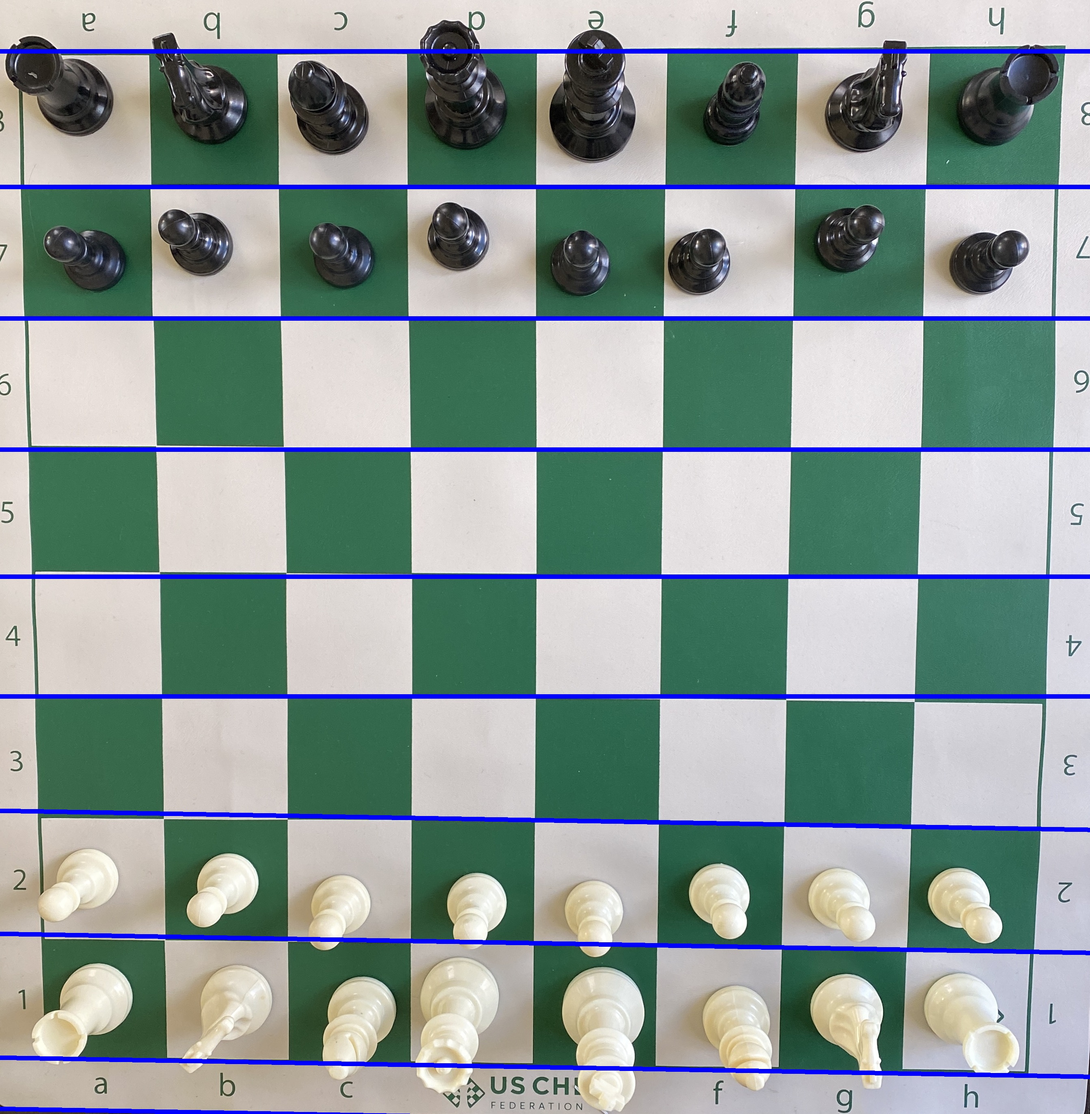
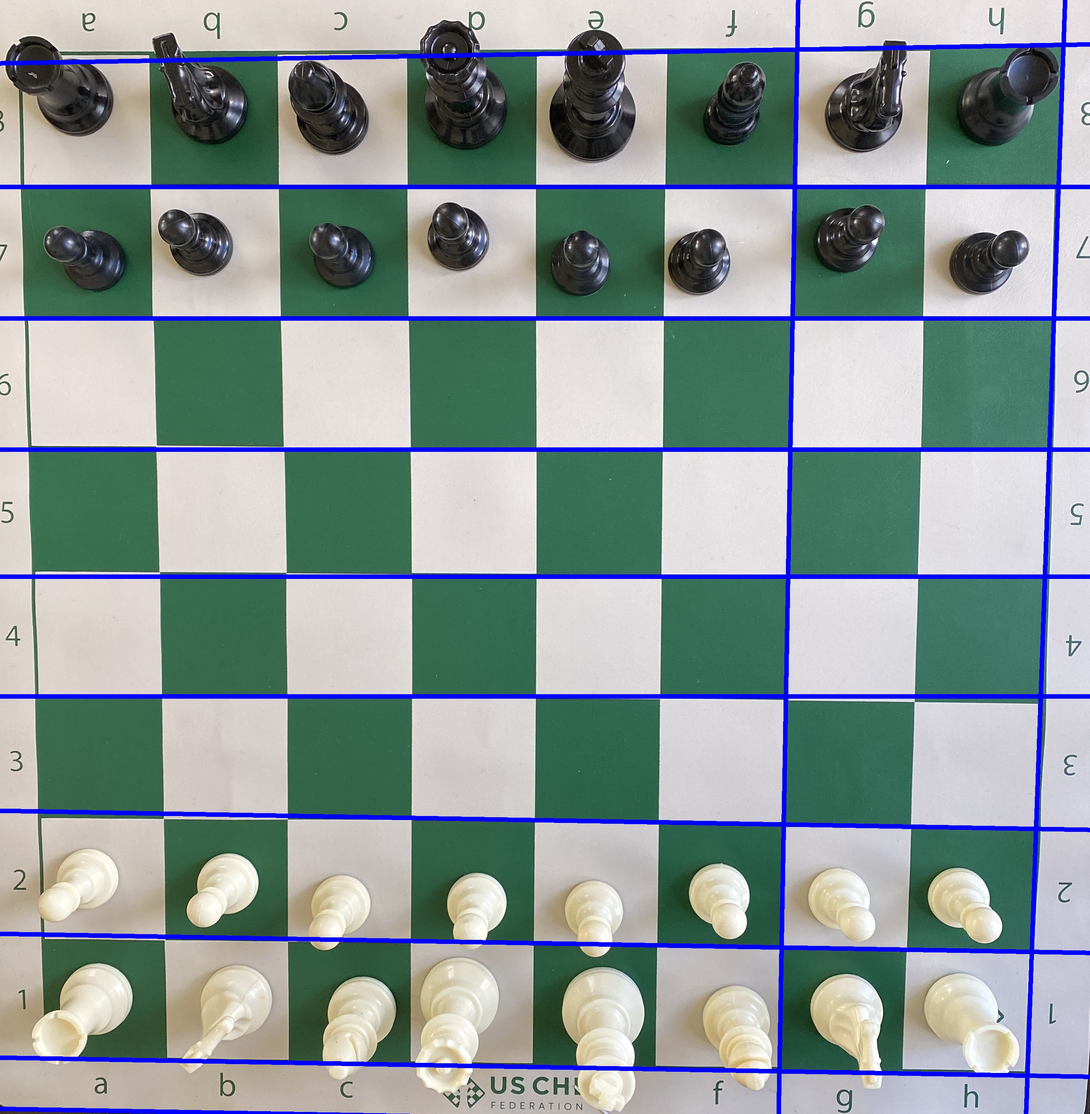
working on grid detection

Changed region(s): [[0.6492, 0.0, 1.0, 1.0], [0.0, 0.031, 0.6182, 0.062], [0.9274, 0.5266, 0.9583, 1.0]]

diff --git a/check4mate (python app)/main.py b/check4mate (python app)/main.py
@@ -69,9 +69,9 @@ for r_theta in lines:
     #Find whether line is closer to horizontal or vertical
     if x1-x2 == 0:
         linesV.append([(x1, y1), (x2, y2)])
-    elif y1 - y2 / x1 - x2 < 0.5:  # is a horizontal line
+    elif (y1 - y2) / (x1 - x2) < 0.2:  # is a horizontal line
         linesH.append([(x1, y1), (x2, y2)])
-    elif y1 - y2 / x1 - x2 > 2:  # is a vertical line
+    elif (y1 - y2) / (x1 - x2) > 1.5:  # is a vertical line
         linesV.append([(x1, y1), (x2, y2)])
     # cv2.line(img, (x1, y1), (x2, y2), (0, 0, 255), 3)
 
@@ -81,7 +81,14 @@ all_lines = img.copy()
 for line in linesV + linesH:
     cv2.line(all_lines, line[0], line[1], (255, 0, 0), 6)
 cv2.imwrite('houghlines.jpg', all_lines)
-
+all_lines = img.copy()
+for line in linesH:
+    cv2.line(all_lines, line[0], line[1], (255, 0, 0), 6)
+cv2.imwrite('oghorz.jpg', all_lines)
+all_lines = img.copy()
+for line in linesV:
+    cv2.line(all_lines, line[0], line[1], (255, 0, 0), 6)
+cv2.imwrite('ogverts.jpg', all_lines)
 
 # NEW STRATEGY FOR FINDING THE CORRECT 18 LINES
 # def test_line(currentLines, tLine, X):
@@ -132,17 +139,12 @@ for line in linesH:
     cv2.line(all_lines, line[0], line[1], (255, 0, 0), 10)
 cv2.imwrite('pickedHorizontals.jpg', all_lines)
 
-print(len(linesV))
+
 tempV = [[(-100, 0), (-100, 0)]]
 for line in linesV:
     for index, temp in enumerate(tempV):
         if abs(((temp[0][0] + temp[1][0])/2) -
                ((line[0][0] + line[1][0])/2)) < 50:  # duplicate line
-            printout = img.copy()
-            cv2.line(printout, line[0], line[1], (255, 255, 255), 5)
-            cv2.line(printout, temp[0], temp[1], (0, 255, 0), 5)
-            cv2.imshow('stuff', printout)
-            cv2.waitKey(0)
             break
         if line[0][0] > temp[0][0]:
             tempV.insert(index, line)
